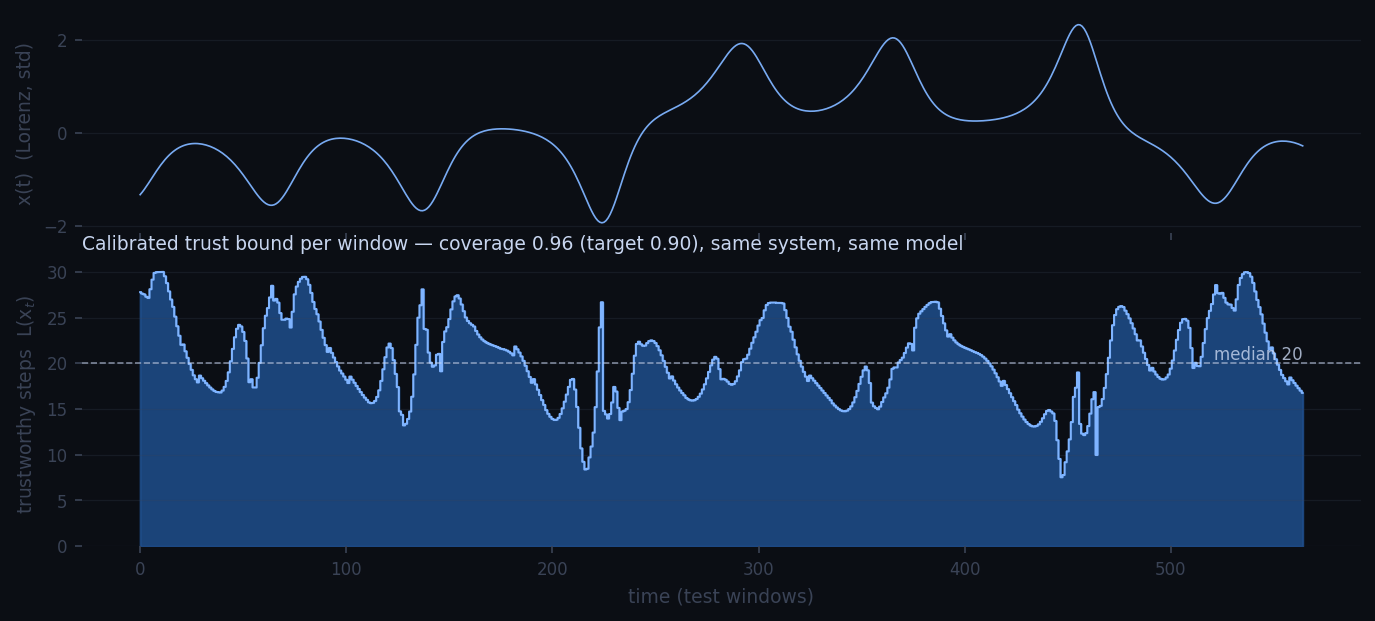
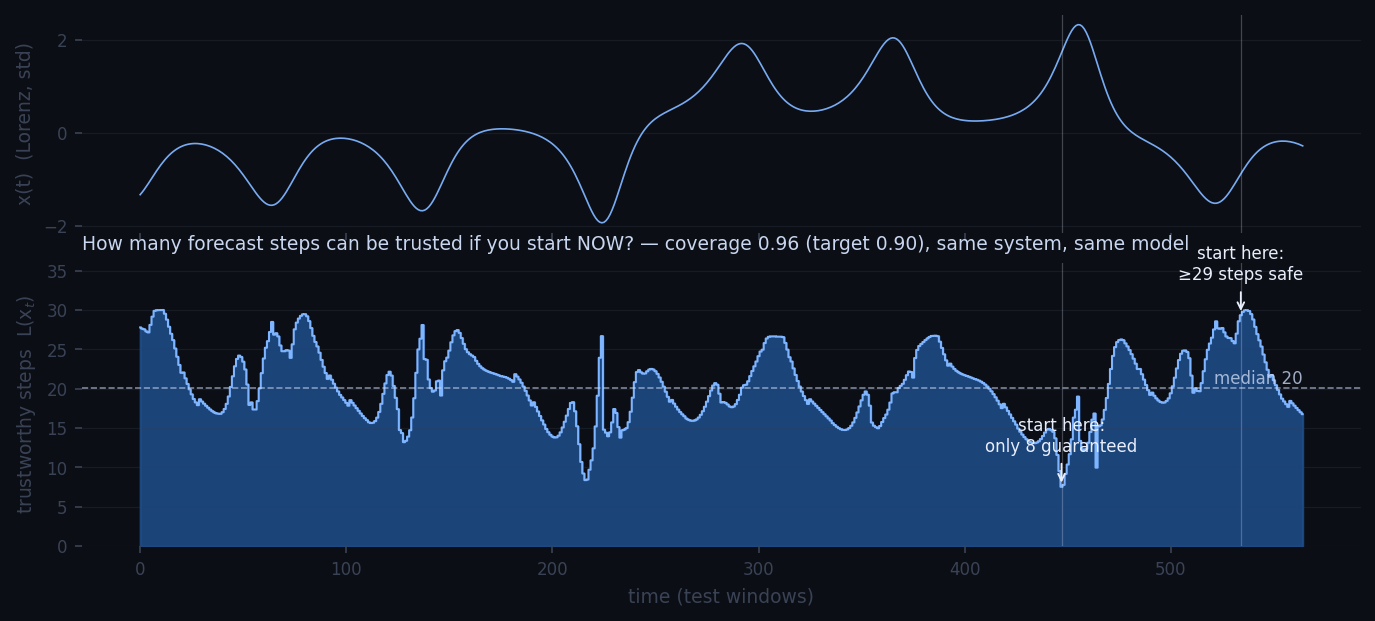
README figure: annotated, self-explanatory version (two example instants, honest annotations only)

diff --git a/studies/make_readme_figure.py b/studies/make_readme_figure.py
@@ -71,16 +71,32 @@ def main():
     ax1.plot(t, L, drawstyle="steps-mid", color=blue_hi, linewidth=1.0)
     ax1.set_ylabel("trustworthy steps  L(x$_t$)", color=grey, fontsize=9)
     ax1.set_xlabel("time (test windows)", color=grey, fontsize=9)
-    ax1.set_ylim(0, max(10, L.max() + 1))
+    ax1.set_ylim(0, max(10, L.max() + 6))
     med = float(np.median(L))
     ax1.axhline(med, color="#c8d6f0", linewidth=0.8, linestyle="--", alpha=0.6)
-    ax1.text(t[-1], med + 0.3, f"median {med:.0f}", color="#c8d6f0",
+    ax1.text(t[-1], med + 0.5, f"median {med:.0f}", color="#c8d6f0",
              fontsize=8, ha="right", alpha=0.8)
     ax1.set_title(
-        f"Calibrated trust bound per window — coverage {est.coverage_:.2f} "
-        f"(target 0.90), same system, same model",
+        f"How many forecast steps can be trusted if you start NOW? — "
+        f"coverage {est.coverage_:.2f} (target 0.90), same system, same model",
         color="#c8d6f0", fontsize=9, loc="left", pad=6,
     )
+
+    # Annotate two example instants: a comfortable start and a risky one.
+    i_lo = int(np.argmin(L))
+    smooth = np.convolve(L, np.ones(15) / 15, mode="same")
+    i_hi = int(np.argmax(smooth[30:-30])) + 30
+    for i, label, dy in (
+        (i_hi, f"start here:\n≥{L[i_hi]:.0f} steps safe", 4.5),
+        (i_lo, f"start here:\nonly {L[i_lo]:.0f} guaranteed", 4.5),
+    ):
+        ax1.annotate(
+            label, xy=(t[i], L[i]), xytext=(t[i], L[i] + dy),
+            color="#e8eefc", fontsize=8, ha="center",
+            arrowprops=dict(arrowstyle="->", color="#e8eefc", lw=0.9),
+        )
+        for ax in (ax0, ax1):
+            ax.axvline(t[i], color="#e8eefc", linewidth=0.6, alpha=0.25)
 
     fig.savefig(OUT, bbox_inches="tight", facecolor=bg)
     print(f"saved {OUT}")